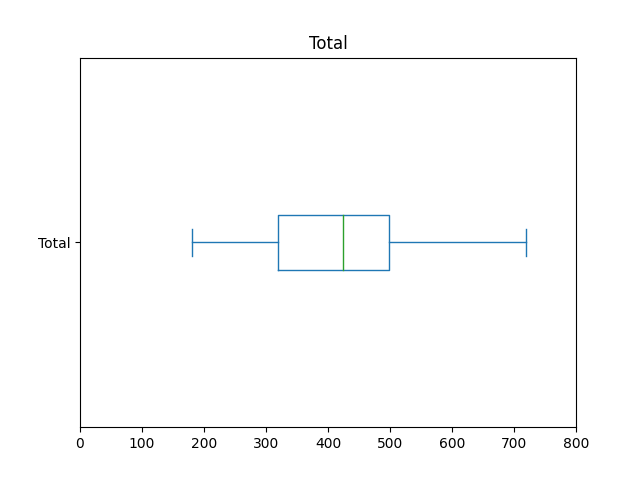
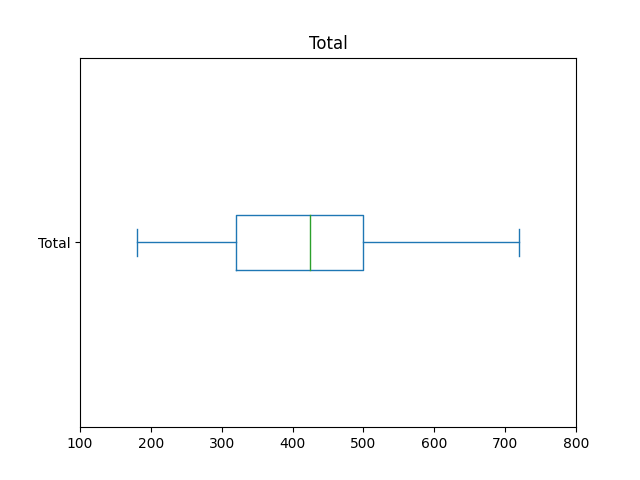
mudanças

diff --git a/Analise Exploratoria/main.py b/Analise Exploratoria/main.py
@@ -7,6 +7,7 @@ CSV_PATH = 'Analise Exploratoria/pokemon_alopez247.csv'
 ## Exercicio 2 - Analise individual
 
 def gen_hp_graph(pd_data):
+    #split in intervals of 10
     pd_data['HP'].plot(kind='box', title='HP', vert=False, xlim=(0, 200))
     plt.savefig('Analise Exploratoria/HP.png')
     plt.close()
@@ -37,7 +38,7 @@ def gen_speed_graph(pd_data):
     plt.close()
 
 def gen_total_graph(pd_data):
-    pd_data['Total'].plot(kind='box', title='Total', vert=False, xlim=(0, 800))
+    pd_data['Total'].plot(kind='box', title='Total', vert=False, xlim=(100, 800))
     plt.savefig('Analise Exploratoria/Total.png')
     plt.close()
 
@@ -58,15 +59,25 @@ def gen_no_pokemon_by_generation(pd_data):
 
 def gen_no_pokemon_by_first_type(pd_data):
     pd_data.groupby('Type_1')['Name'].count().plot(kind='bar', title='No. Pokemon by First Type')
+    
+    fig = plt.gcf()
+    fig.set_size_inches(18.5, 10.5)
     plt.savefig('Analise Exploratoria/No_Pokemon_First_Type.png')
     plt.close()
 
 def gen_no_pokemon_by_second_type(pd_data):
     pd_data.groupby('Type_2')['Name'].count().plot(kind='bar', title='No. Pokemon by Second Type')
+    
+    fig = plt.gcf()
+    fig.set_size_inches(18.5, 10.5)
     plt.savefig('Analise Exploratoria/No_Pokemon_Second_Type.png')
     plt.close()
+
     pd_data['Type_2'].fillna('None', inplace=True)
     pd_data.groupby('Type_2')['Name'].count().plot(kind='bar', title='No. Pokemon by Second Type')
+
+    fig = plt.gcf()
+    fig.set_size_inches(18.5, 10.5)
     plt.savefig('Analise Exploratoria/No_Pokemon_Second_Type_None_Included.png')
     plt.close()
 
@@ -162,7 +173,6 @@ if __name__ == '__main__':
 
 #### Ex 2
 
-
     gen_hp_graph(data_pandas)
     gen_attack_graph(data_pandas)
     gen_defense_graph(data_pandas)
@@ -180,15 +190,15 @@ if __name__ == '__main__':
 
 #### Ex 3
 
-    gen_weight_speed_comparison_graph(data_pandas)
-    gen_weight_total_comparison_graph(data_pandas)
+    # gen_weight_speed_comparison_graph(data_pandas)
+    # gen_weight_total_comparison_graph(data_pandas)
 
-    gen_height_speed_comparison_graph(data_pandas)
-    gen_height_total_comparison_graph(data_pandas)
+    # gen_height_speed_comparison_graph(data_pandas)
+    # gen_height_total_comparison_graph(data_pandas)
 
-    gen_avg_total_for_generation(data_pandas)
+    # gen_avg_total_for_generation(data_pandas)
 
-    gen_most_common_type_combination(data_pandas)
-    gen_no_pokemon_by_type(data_pandas)
-    gen_avg_total_by_type(data_pandas)
-    get_avg_speed_by_type(data_pandas)
+    # gen_most_common_type_combination(data_pandas)
+    # gen_no_pokemon_by_type(data_pandas)
+    # gen_avg_total_by_type(data_pandas)
+    # get_avg_speed_by_type(data_pandas)
